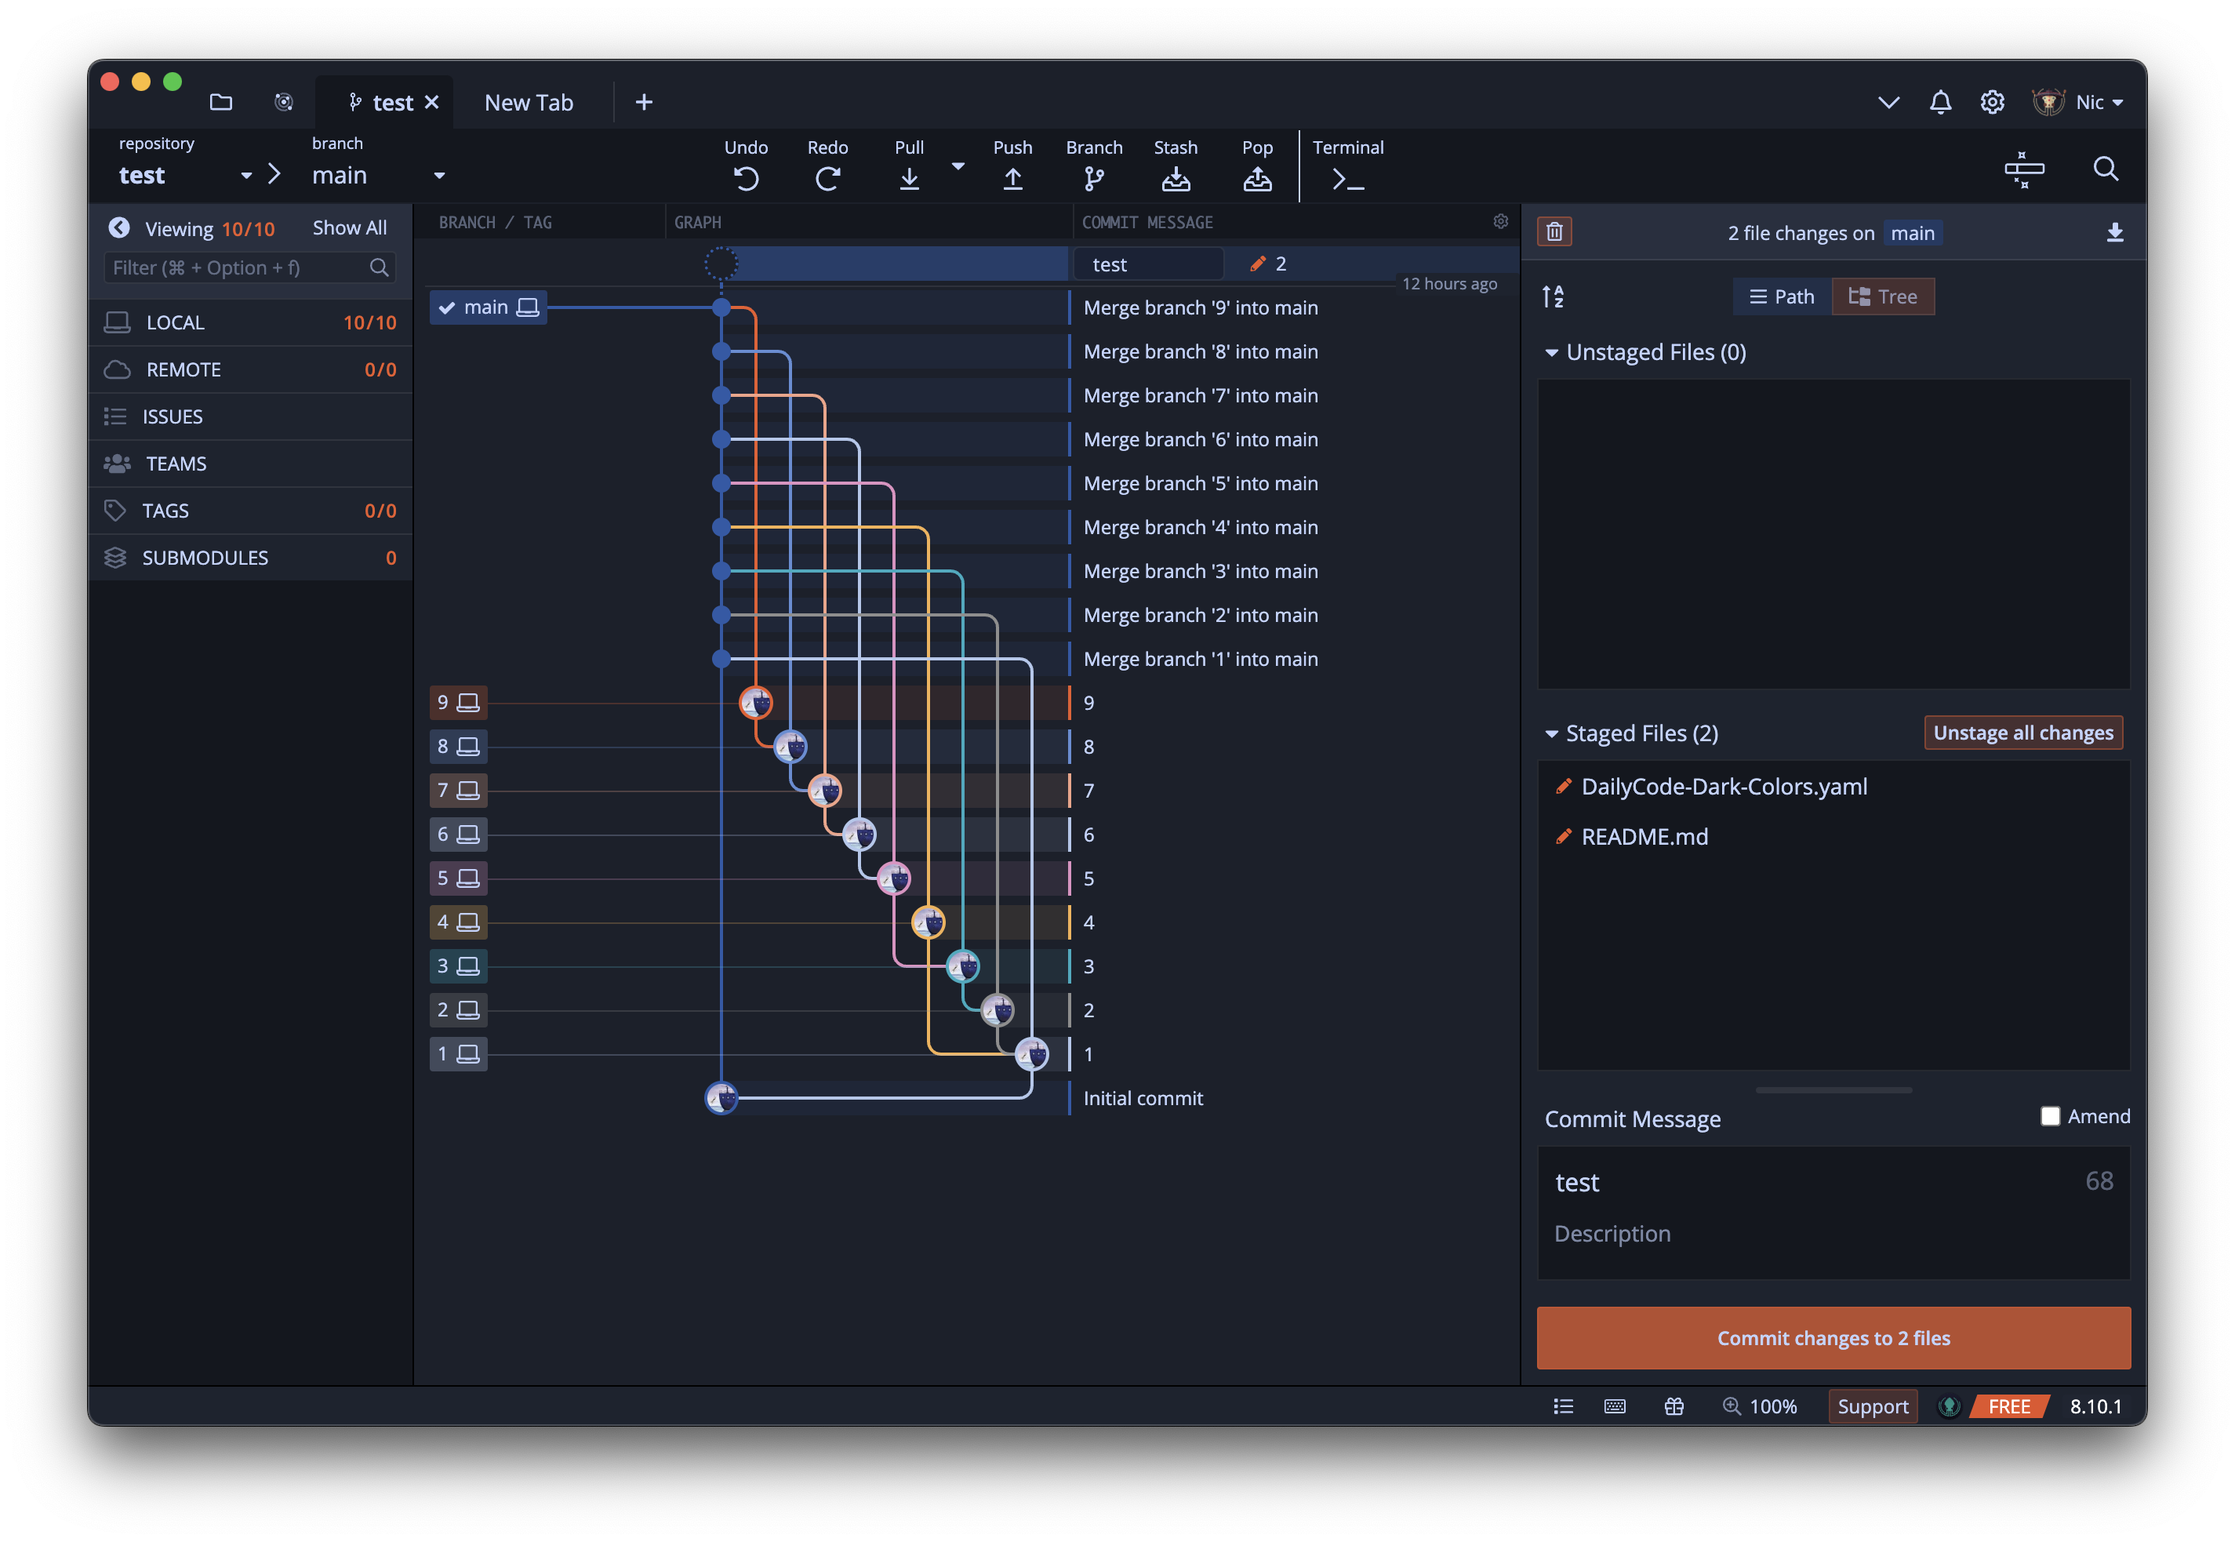
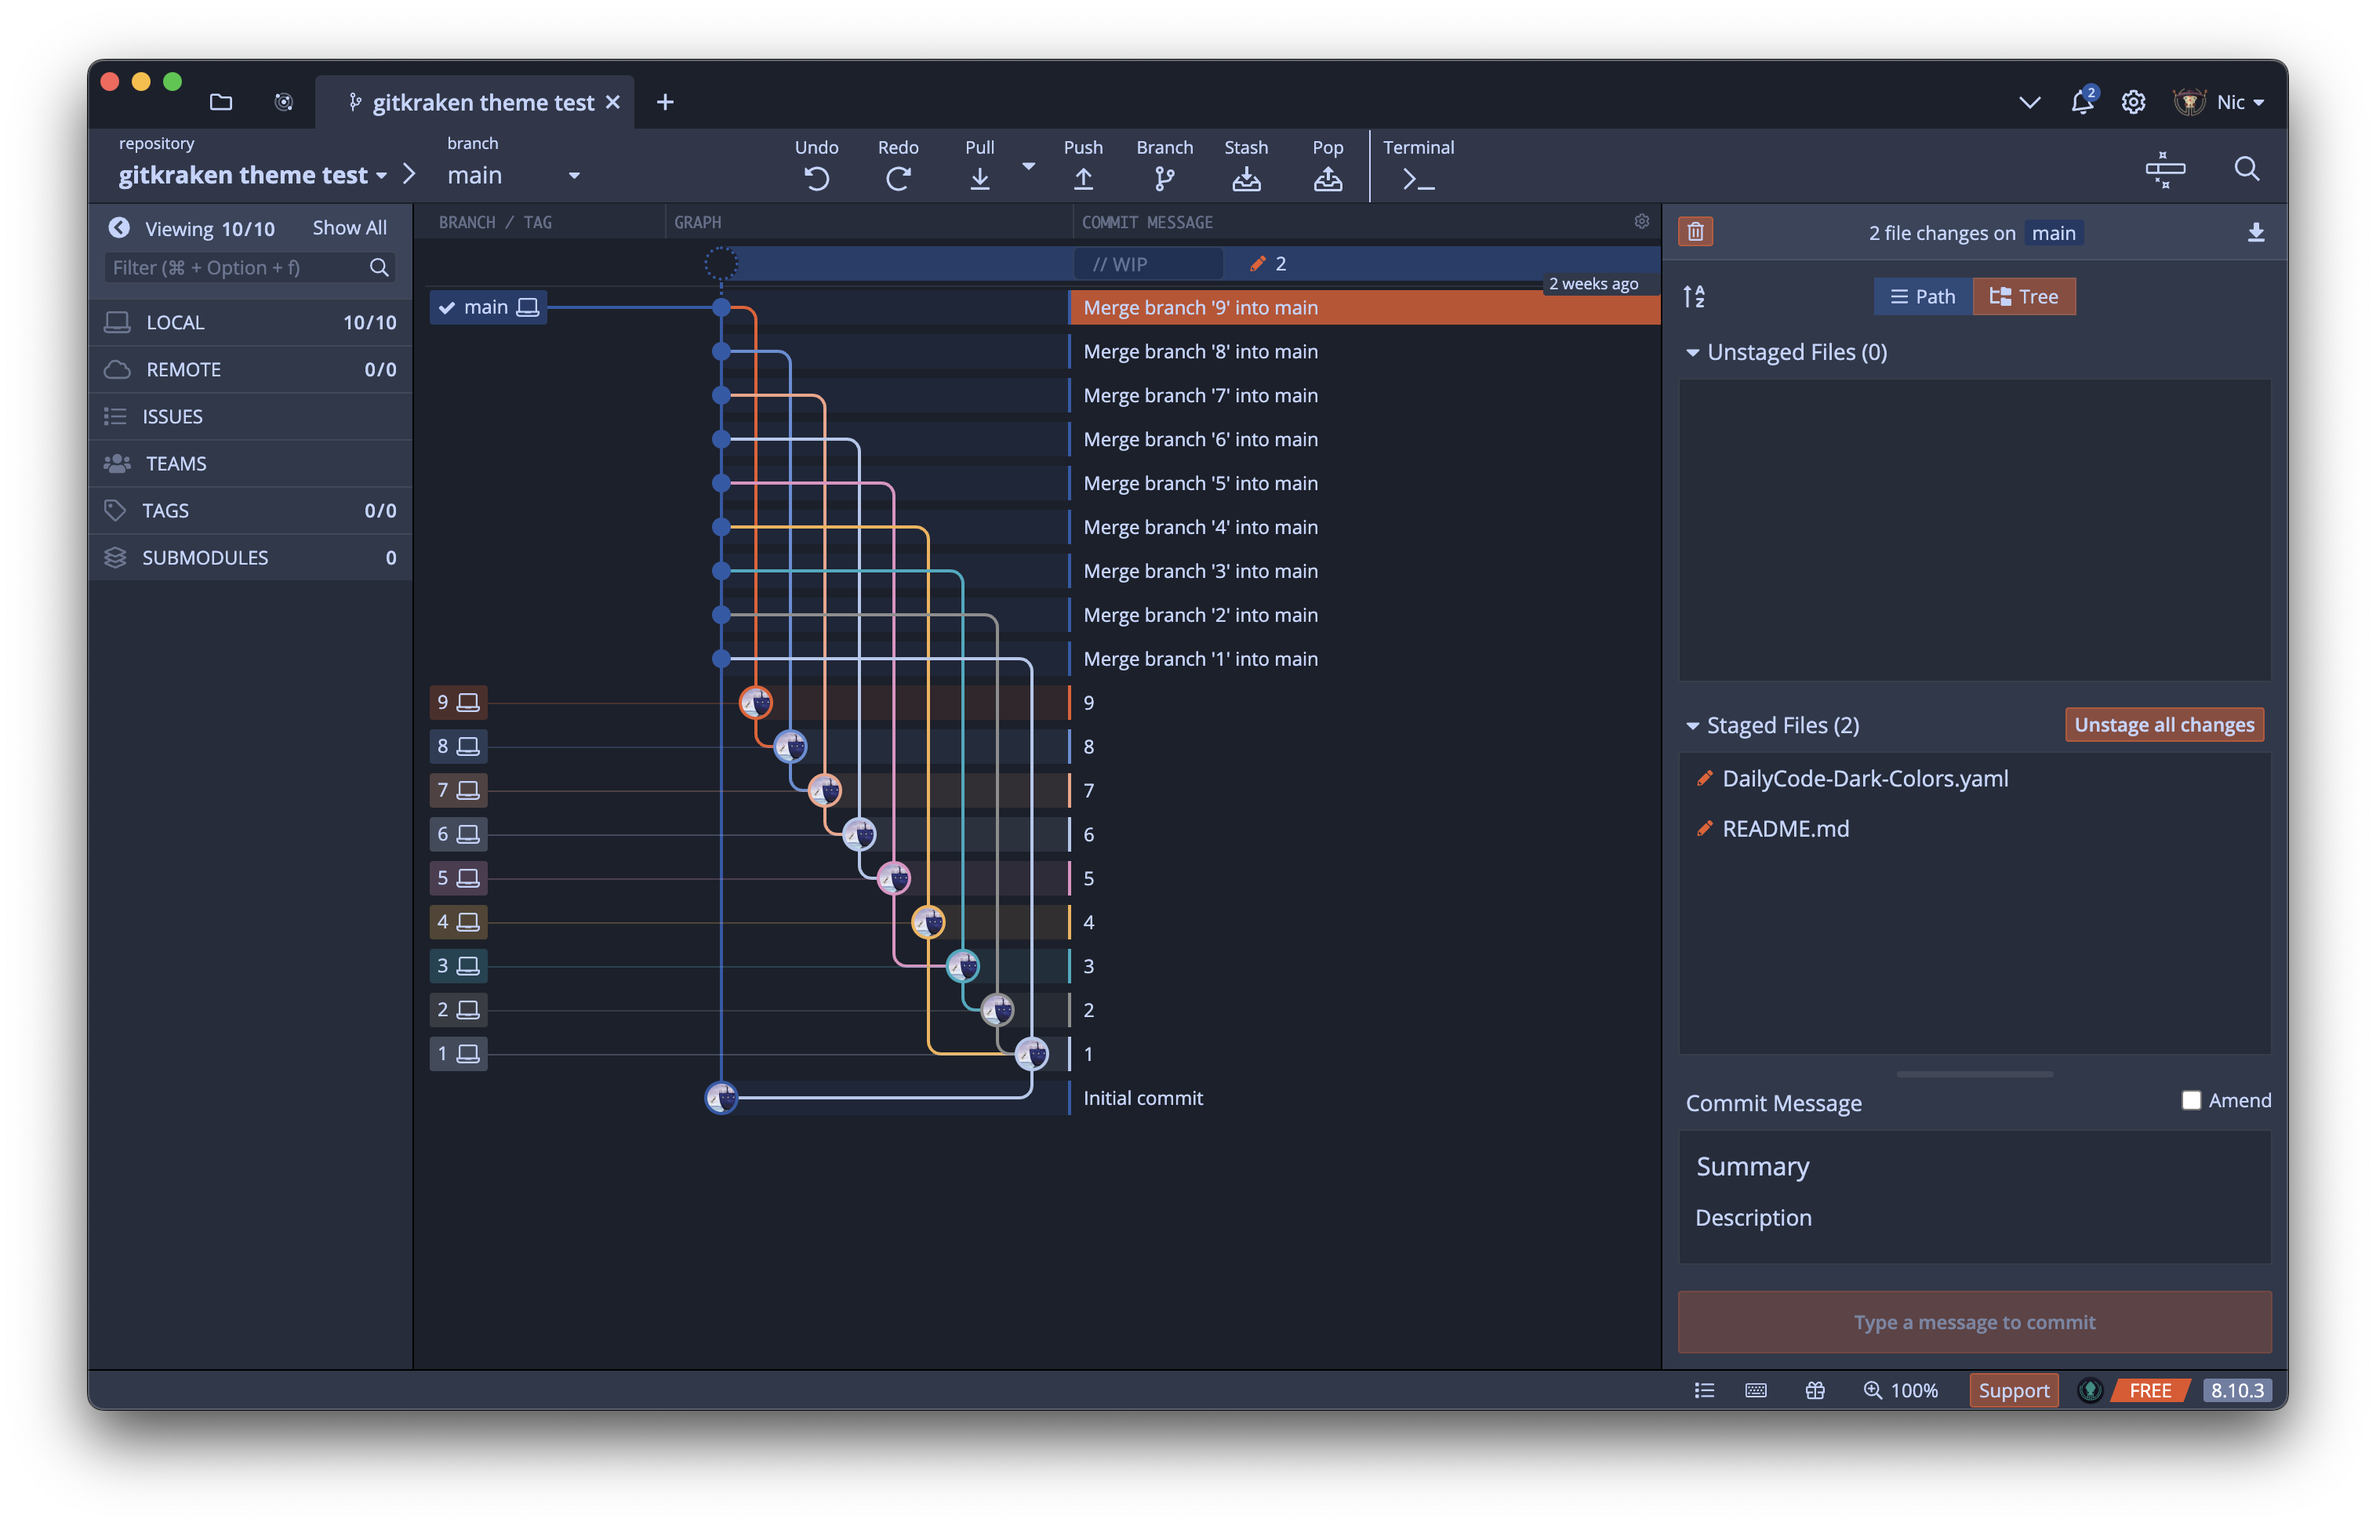
version 0.0.2

diff --git a/README.md b/README.md
@@ -5,3 +5,14 @@
 Based on DailyPay with dark color themes.
 
 ![001](images/001.png)
+
+[Making Your Own Theme](https://help.gitkraken.com/gitkraken-client/themes/)
+
+To make your own custom theme, follow these steps:
+
+1. Make a copy of one of the default theme files you’d like to base your custom theme off of in this folder.
+2. Rename your copied file to be `MyCustomTheme.jsonc` (i.e. drop the `-default` from the extension and give it a unique name).
+3. Open your new theme file in a text editor.
+4. Change the `meta.name` property of your theme file to be something unique (a good idea would be to match the file name). The `name` will be used as the display for the option under `Preferences > UI Customization > Theme` in `GitKraken`, so make it something you’ll recognize. The scheme must be "light" or "dark", and will be used for default colors if anything is missing. If new properties are added in future releases, your theme will continue to work as-is, by using the scheme to choose a default color for the missing properties.
+5. Back in `GitKraken`, find your new custom theme under `Preferences > UI Customization > Theme` and select it.
+6. Edit the color values for any of the props under `themeValues`.

diff --git a/CHANGELOG.md b/CHANGELOG.md
@@ -1,0 +1,14 @@
+# Change Log
+
+
+
+## version 0.0.2
+
+- Lighten background
+- Increases opacity of orange highlights
+
+
+
+## version 0.0.1
+
+- Initial release
